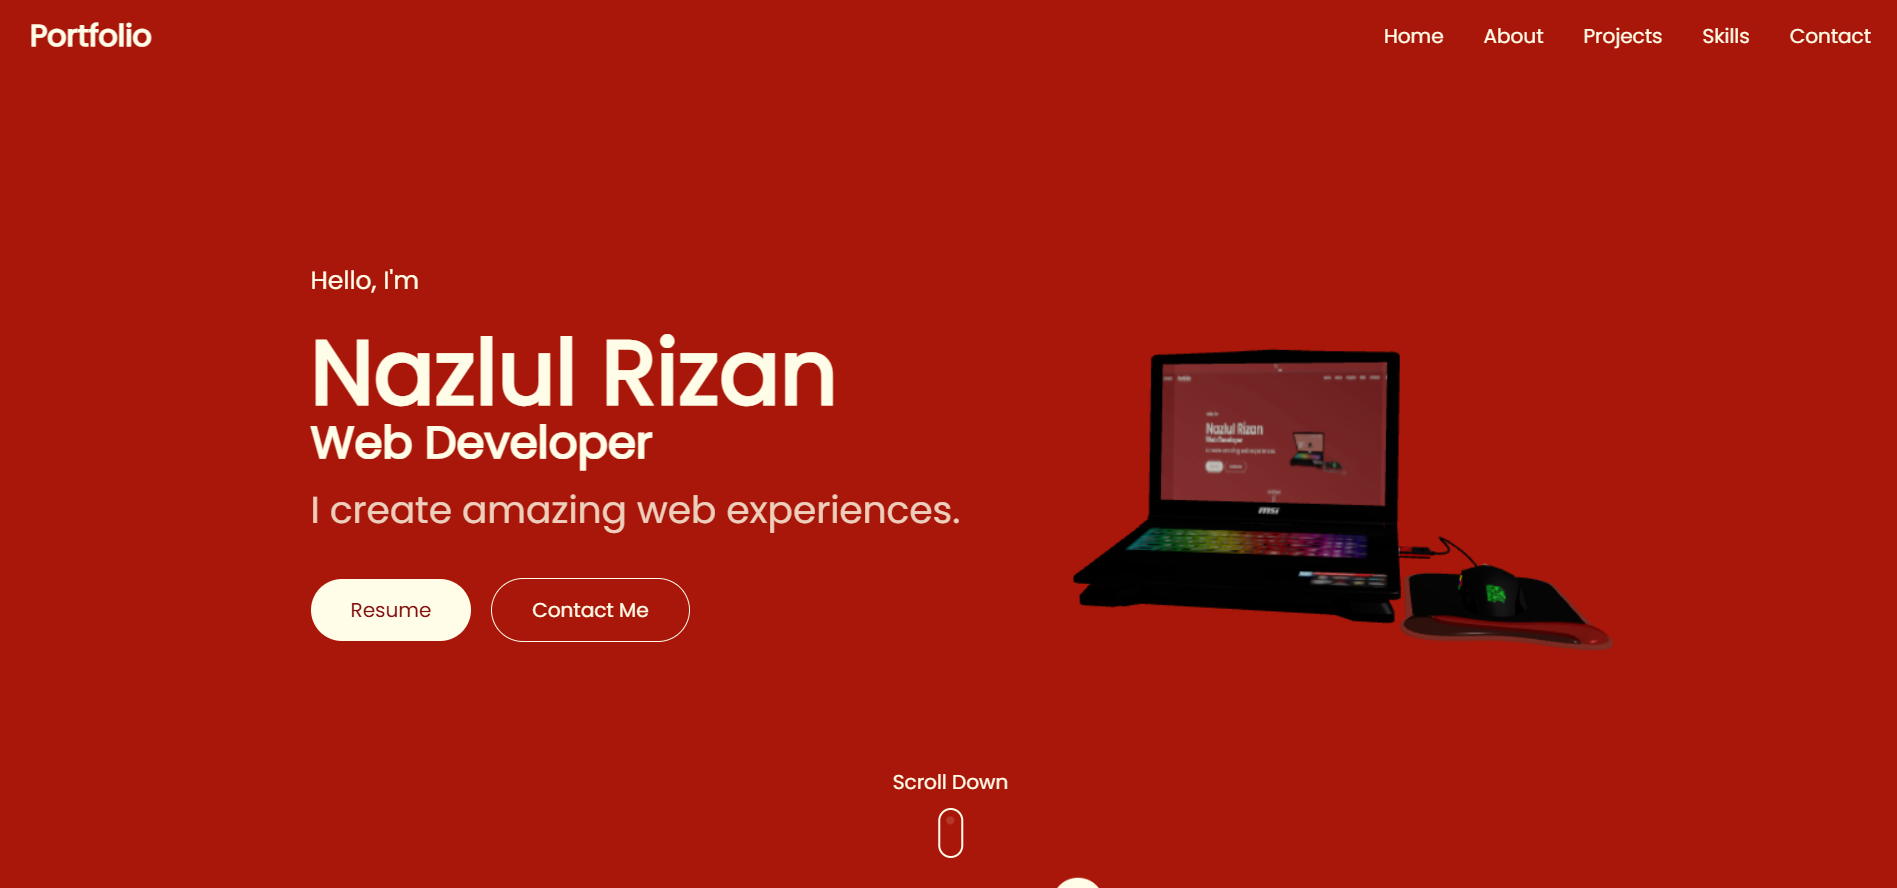
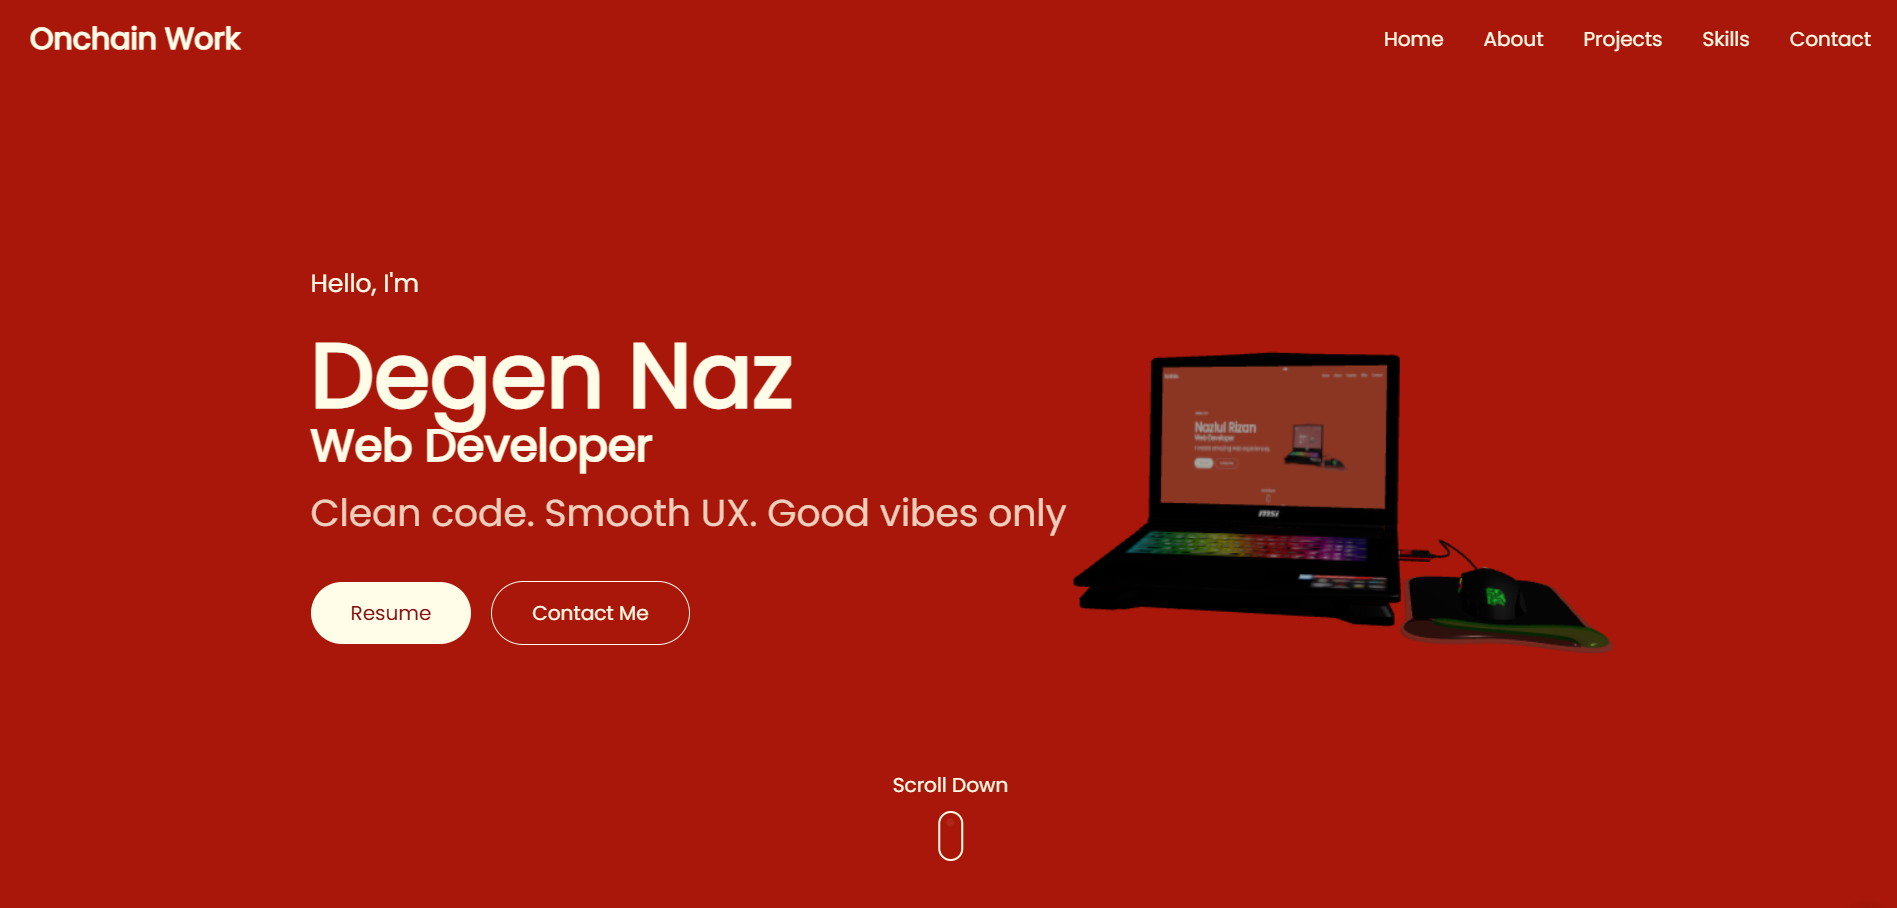
Images updated

diff --git a/src/components/Hero.tsx b/src/components/Hero.tsx
@@ -36,9 +36,17 @@ const Hero = () => {
         >
           <span className="text-lg md:text-xl text-[#fffde8]">Hello, I'm</span>
         </motion.div>
-        <span className="text-4xl md:text-6xl lg:text-7xl mb-4 font-bold text-[#fffde8]">
+       <div className="flex items-center justify-center md:justify-start mb-4">
+        <img
+          src="/pfp.png"
+          alt="Profile Picture"
+          className="w-14 h-14 md:w-16 md:h-16 rounded-full border-2 border-[#fffde8] mr-3 object-cover"
+        />
+        <span className="text-4xl md:text-6xl lg:text-7xl font-bold text-[#fffde8]">
           Degen Naz
         </span>
+      </div>
+
         <motion.h1
           initial={{ opacity: 0, y: 20 }}
           animate={{ opacity: 1, y: 0 }}
